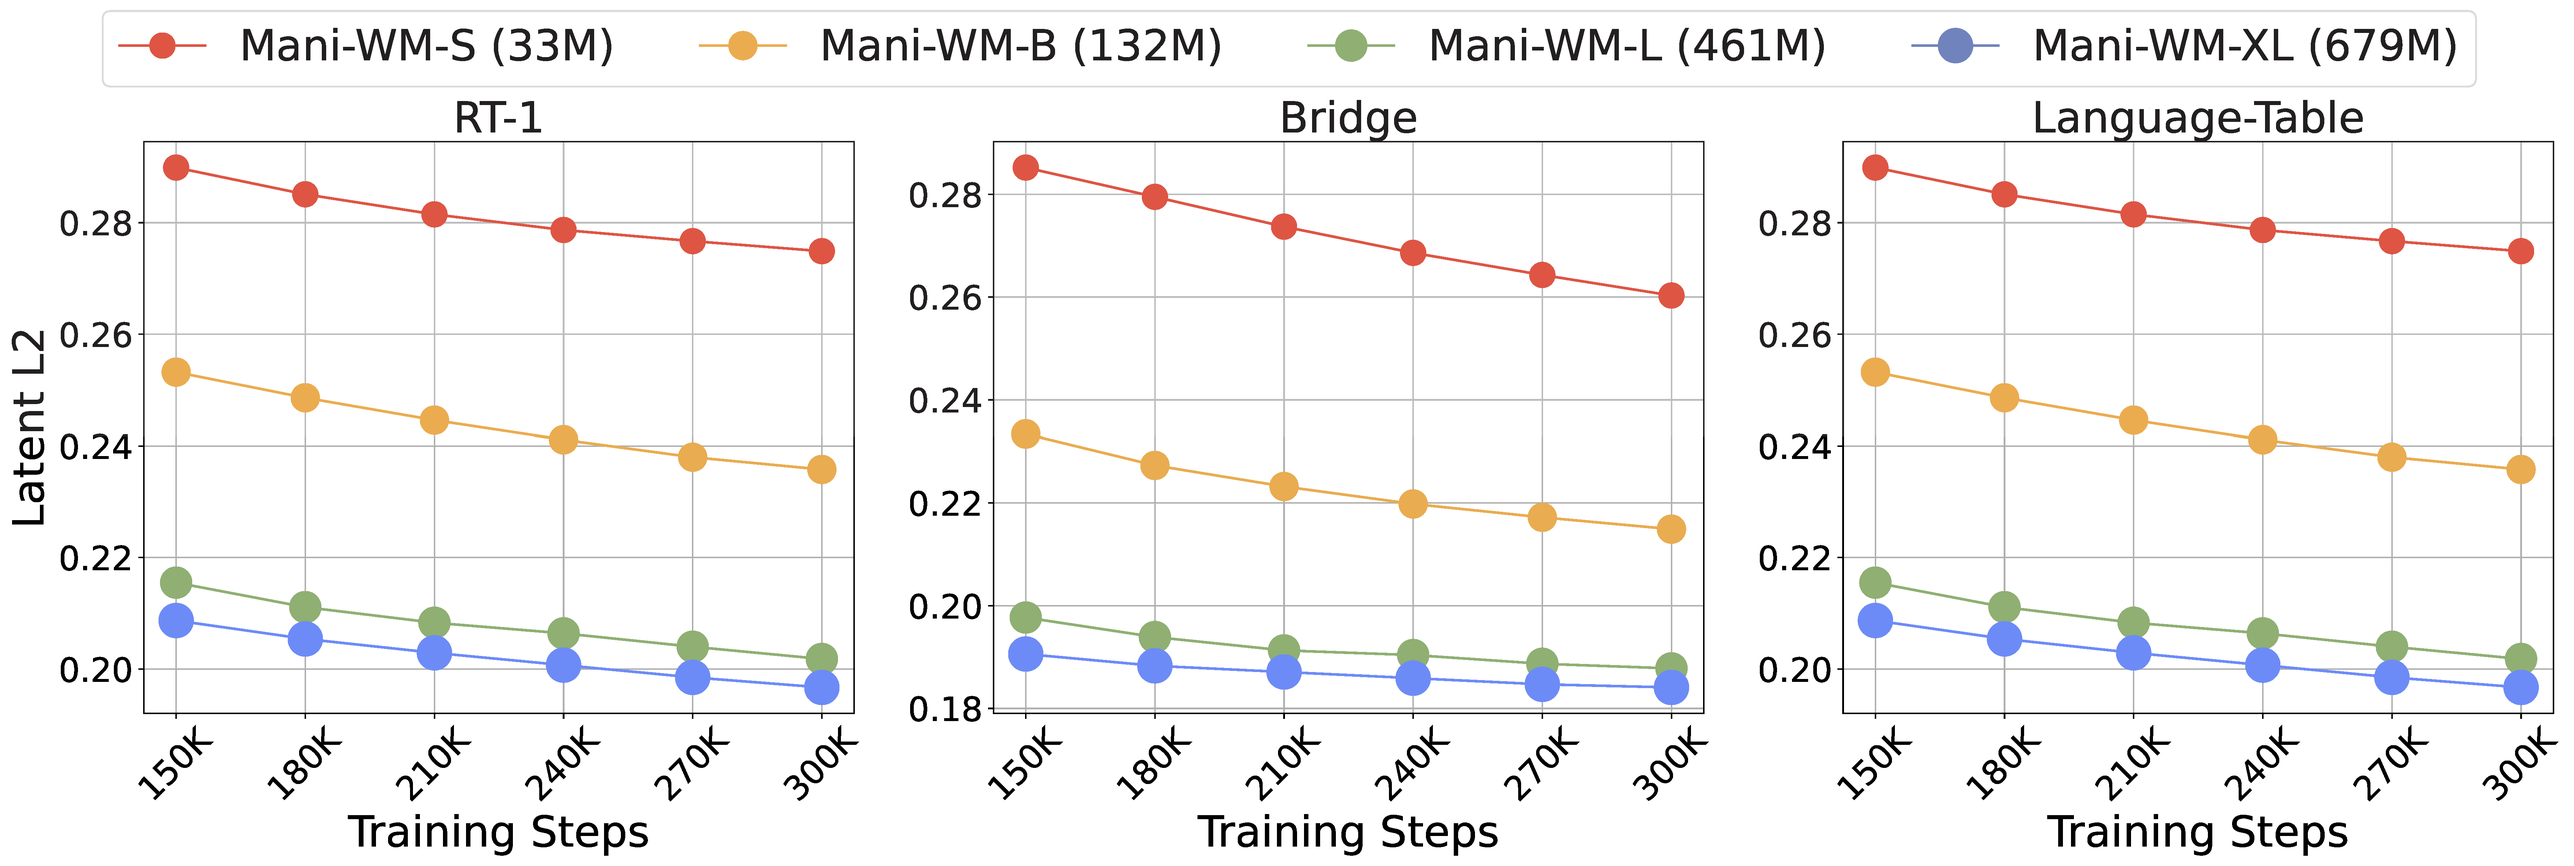
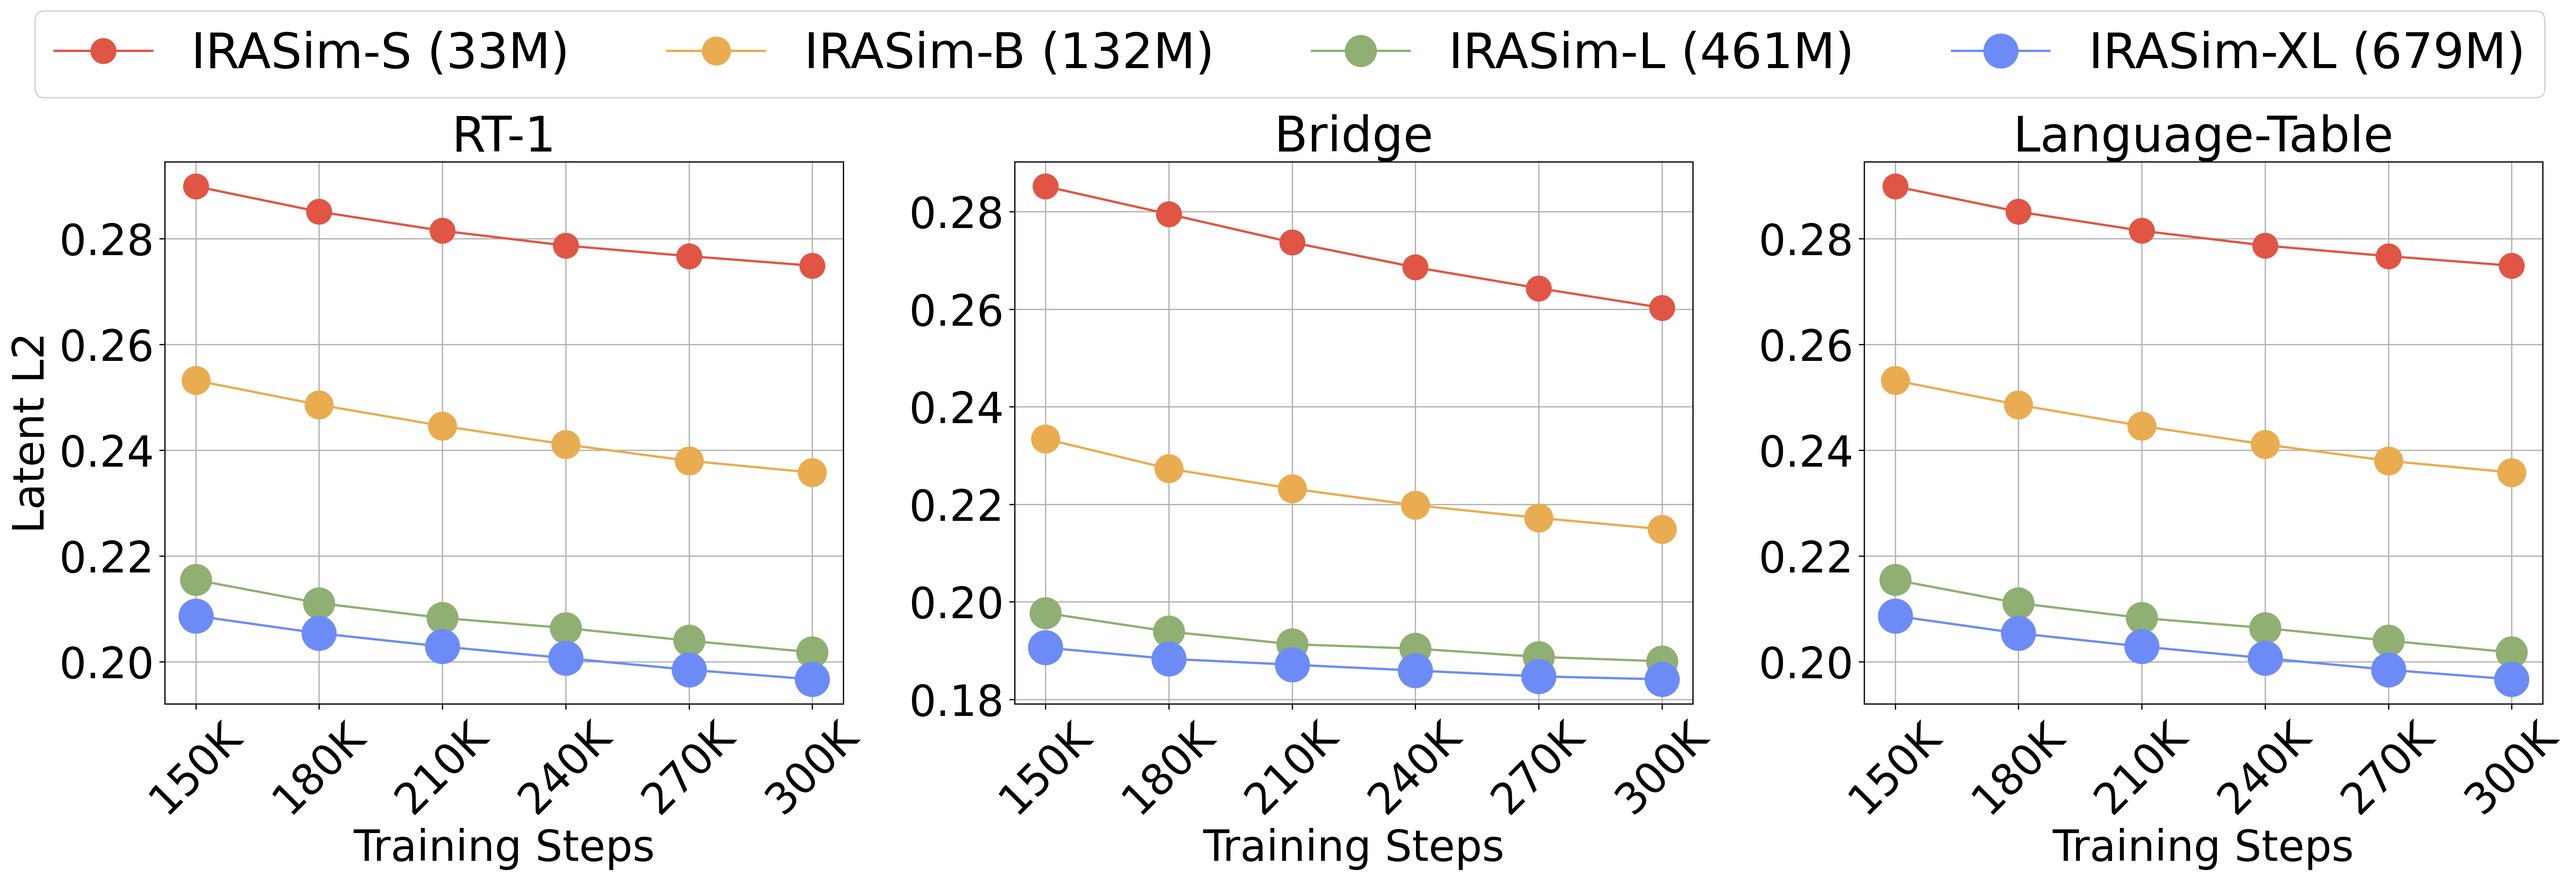
update

diff --git a/index.html b/index.html
@@ -45,7 +45,8 @@
     </style>
     <link rel="stylesheet" href="main.css">
     <link rel="icon" type="image/x-icon" href="assets/favicon.png">
-    <title>Mani-WM: An Interactive World Model for Real-Robot Manipulation</title>
+    <title>IRASim: A Fine-Grained World Model for Robot Manipulation
+    </title>
 </head>
 <body>
     <div id="video_grid">
@@ -109,33 +110,23 @@
     
 <div id="title_slide">
     <div class="title_left">
-        <h1 style="text-align: center;">Mani-WM: An Interactive World Model for Real-Robot Manipulation</h1>
+        <h1 style="text-align: center;">IRASim: A Fine-Grained World Model for Robot Manipulation</h1>
         <div class="author-container-1">
-            <div class="grid-item">ICLR 2025 Submission #6028</div>
+            <div class="grid-item">ICCV 2025 Submission #13322</div>
+            <div class="grid-item">
+                <a href="https://anonymous.4open.science/r/iccv-2025-13322" target="_blank">Anonymous Code</a>
+            </div>
         </div>
 
         <br>
 
         <div id="abstract" class="grid-container">
             <p>
-                Scalable robot learning in the real world is limited by the cost and safety issues
-                of real robots. In addition, rolling out robot trajectories in the real world can
-                be time-consuming and labor-intensive. In this paper, we propose to learn an
-                interactive world model for robot manipulation as an alternative. We present a
-                novel method, Mani-WM, which leverages the power of generative models to
-                generate realistic videos of a robot arm executing a given action trajectory, starting
-                from an initial given frame. Mani-WM employs a novel frame-level conditioning
-                technique to ensure precise alignment between actions and video frames and
-                leverages a diffusion transformer for high-quality video generation. To validate the
-                effectiveness of Mani-WM, we perform extensive experiments on four challenging
-                real-robot datasets. Results show that Mani-WM outperforms all the comparing
-                baseline methods and is more preferable in human evaluations. We further showcase
-                the flexible action controllability of Mani-WM by controlling the virtual robots in
-                datasets with trajectories 1) predicted by an autonomous policy and 2) collected by
-                a keyboard or VR controller. Finally, we combine Mani-WM with model-based
-                planning to showcase its usefulness on real-robot manipulation tasks. We hope that
-                Mani-WM can serve as an effective and scalable approach to enhance robot learning
-                in the real world.
+                World models allow autonomous agents to plan and explore by predicting the visual outcomes of different actions. 
+                However, for robot manipulation, it is challenging to accurately model the fine-grained robot-object interaction within the visual space using existing methods which overlooks precise alignment between each action and the corresponding frame. 
+                In this paper, we present IRASim, a novel world model capable of generating videos with fine-grained robot-object interaction details, conditioned on historical observations and robot action trajectories. 
+                We train a diffusion transformer and introduce a novel frame-level action-conditioning module within each transformer block to explicitly model and strengthen the action-frame alignment. 
+                Extensive experiments show that: (1) the quality of the videos generated by our method surpasses all the comparing baseline methods and scales effectively with increased model size and computation; (2) policy evaluations using IRASim exhibit a strong correlation with those using the ground-truth simulator, highlighting its potential to accelerate real-world policy evaluation; (3) testing-time scaling through model-based planning with IRASim significantly enhances policy performance, as evidenced by an improvement in the IoU metric on the Push-T benchmark from 0.637 to 0.961; (4) IRASim provides flexible action controllability, allowing virtual robotic arms in datasets to be controlled via a keyboard or VR controller. 
             </p>
         </div>
     </div>
@@ -145,7 +136,7 @@
     
     <h1 style="text-align: center;">Video Generation as World Model</h1>
     <p>
-        We create an interactive real-robot manipulation world model that can simulate robot trajectories in a way that is accurate and almost visually indistinguishable from the real world.
+        We create an fine-grained real-robot manipulation world model that can simulate robot trajectories in a way that is accurate and almost visually indistinguishable from the real world.
         With such a world model, agents can interactively control virtual robots to interact with diverse objects in various scenes and perform
         model-based planning by imagining the outcomes of different proposed candidate trajectories.
     </p>
@@ -154,7 +145,7 @@
         <div class="image_container">
             <img src="assets/images/intro.png">
             <div class="caption" style="margin-top: 0.0vw">
-                <p>Figure 1: <strong>Overview of Mani-WM.</strong>Mani-WM is an interactive world model that allows users to input an
+                <p>Figure 1: <strong>Overview of IRASim.</strong>IRASim is an interactive world model that allows users to input an
                     action trajectory to control the "real robot" in an initial frame.</p>
             </div>
         </div>
@@ -163,16 +154,16 @@
     <h1 style="text-align: center;">Trajectory-conditioned Video Generation</h1>
 
     <p>
-        Mani-WM is a novel method that generates extremely realistic videos of a robot that executes an action trajectory, starting from a given initial frame.
+        IRASim is a novel method that generates extremely realistic videos of a robot that executes an action trajectory, starting from a given initial frame.
         We refer to this task as the <em>trajectory-to-video</em> task.
         The trajectory-to-video task differs from the general text-to-video task. 
         While various videos can meet the text condition in the text-to-video task, the predicted video in our trajectory-to-video task must strictly and accurately follow the input trajectory.
         More importantly, a challenge of this task is that each action in the trajectory provides an exact description of the robot's movement in each frame.
         This contrasts with the text-to-video task, where textual descriptions offer a general condition without specific frame-by-frame details.
         Another challenge is that the trajectory-to-video task features rich robot-object interactions, which must adhere to physical laws.
-        Mani-WM leverages an innovative frame-level condition method to achieve precise frame-by-frame alignment between actions and video frames. 
-        We use the powerful Diffusion Transformer as the backbone of Mani-WM to improve the modeling of robot-object interactions. 
-        <strong>Mani-WM can generate realistic videos of high-resolution (up to 288 × 512) and long-horizon (up to 150+ frames).</strong>
+        IRASim leverages an innovative frame-level condition method to achieve precise frame-by-frame alignment between actions and video frames. 
+        We use the powerful Diffusion Transformer as the backbone of IRASim to improve the modeling of robot-object interactions. 
+        <strong>IRASim can generate realistic videos of high-resolution (up to 288 × 512) and long-horizon (up to 150+ frames).</strong>
 
     </p>
 
@@ -181,7 +172,7 @@
             <img src="assets/images/network.png">
             <div class="caption" style="margin-top: 0.0vw">
                 <p>
-                    Figure 2: <strong>Network Architecture of Mani-WM.</strong> (a) shows the general diffusion transformer architecture of Mani-WM. The input to Mani-WM includes the initial frame and the entire trajectory. (b) Frame-level adaptation (Frame-Ada). (c) Video-level adaptation (Video-Ada).
+                    Figure 2: <strong>Network Architecture of IRASim.</strong> (a) shows the general diffusion transformer architecture of IRASim. The input to IRASim includes the initial frame and the entire trajectory. (b) Frame-level adaptation (Frame-Ada). (c) Video-level adaptation (Video-Ada).
                 </p>
             </div>
         </div>
@@ -193,7 +184,7 @@
         Click the <em>Click to View More</em> button to display another random subset from 100 unpicked samples for each dataset.
         All samples are from the test set.
         Each video contains 16 frames with 4 fps. 
-        The video on the left is generated by Mani-WM, while the video on the right is the ground truth.
+        The video on the left is generated by IRASim, while the video on the right is the ground truth.
     </p>
     </br>
     <div class="button-container">
@@ -211,8 +202,8 @@
         Hover over on these longest videos to see their number of frames.
         All episodes are from the test set. 
         The average number of frames of the 100 unpicked episodes are 47.04, 36.43, and 24.57 for RT-1, Bridge, and Language-Table, respectively.
-        The video on the left is generated by Mani-WM; the video on the right is the ground truth. 
-        Mani-WM retains the powerful capability of generating visually realistic and accurate videos of long-horizon as in the short trajectory setting.  
+        The video on the left is generated by IRASim; the video on the right is the ground truth. 
+        IRASim retains the powerful capability of generating visually realistic and accurate videos of long-horizon as in the short trajectory setting.  
     </p>
     </br>
     <div class="button-container">
@@ -224,9 +215,9 @@
 
     <h1 style="text-align: center;">Scaling</h1>
     <p>
-        We follow DiT and train Mani-WM-Frame-Ada of different model sizes ranging from 33M to 679M. 
+        We follow DiT and train IRASim-Frame-Ada of different model sizes ranging from 33M to 679M. 
         Results are shown in Fig. 4. 
-        On all three datasets, Mani-WM scales elegantly with the increase of model sizes and training steps. 
+        On all three datasets, IRASim scales elegantly with the increase of model sizes and training steps. 
         This indicates strong potential for increasing model sizes and training steps to further improve the performance.
     </p>
     <div class="barplot">
@@ -234,7 +225,7 @@
             <img src="assets/images/scale.png">
             <div class="caption" style="margin-top: 0.0vw; margin-bottom: 0vw; text-align: center;">
                 <p>
-                    Figure 4: <strong>Scaling.</strong> Mani-WM scales elegantly with the increase of model sizes and training steps
+                    Figure 4: <strong>Scaling.</strong> IRASim scales elegantly with the increase of model sizes and training steps
                 </p>
             </div>
         </div>
@@ -245,14 +236,14 @@
     </h1>
 
     <p>
-        To showcase the flexible action controllability of Mani-WM, we conduct qualitative experiments in which the virtual robot is guided by trajectories generated from three distinct input sources: a keyboard, a VR controller, and a policy. Importantly, these trajectories exhibit distributions that differ from those in the original dataset.
+        To showcase the flexible action controllability of IRASim, we conduct qualitative experiments in which the virtual robot is guided by trajectories generated from three distinct input sources: a keyboard, a VR controller, and a policy. Importantly, these trajectories exhibit distributions that differ from those in the original dataset.
         For Language-Table with a 2D translation action space, we use the arrow keys from the keyboard to input action trajectories.
         For RT-1 and Bridge with a 3D action space, we use a VR controller to collect action trajectories as input.
-        We also train Mani-WM on our own robot dataset and leverage a well-trained policy with action chunk techniques to predict the trajectories. 
-        We compare the video generated by Mani-WM with the corresponding real-robot rollout.
-        Videos below show that Mani-WM can accurately follow trajectories from different input sources, beyond the training domain.
-        Additionally, Mani-WM is able to robustly handle multimodality in generation,i.e., generating corresponding videos with an identical initial frame but different trajectories. 
-        In the Appendix in the paper, we also demonstrate that Mani-WM can handle noisy and physically implausible trajectories.
+        We also train IRASim on our own robot dataset and leverage a well-trained policy with action chunk techniques to predict the trajectories. 
+        We compare the video generated by IRASim with the corresponding real-robot rollout.
+        Videos below show that IRASim can accurately follow trajectories from different input sources, beyond the training domain.
+        Additionally, IRASim is able to robustly handle multimodality in generation,i.e., generating corresponding videos with an identical initial frame but different trajectories. 
+        In the Appendix in the paper, we also demonstrate that IRASim can handle noisy and physically implausible trajectories.
     </p>
 
     <h2 style="text-align: center; margin: 20px 20px 20px 20px; font-weight: normal; font-size: 1.2vw">"Controlling" the Robot in Language-Table with a Keyboard</h2>
@@ -300,7 +291,7 @@
 
     <h1 style="text-align: center;margin-bottom: 10px;">Real-Robot Model-based Planning Experiment</h1>
     <p>
-        We conduct a real-robot model-based planning experiment to show the usefulness of Mani-WM for manipulation task. The experiment demonstrates that Mani-WM can effectively plan trajectories to finish manipulation tasks by predicting the outcomes of executing different candidate trajectories.
+        We conduct a real-robot model-based planning experiment to show the usefulness of IRASim for manipulation task. The experiment demonstrates that IRASim can effectively plan trajectories to finish manipulation tasks by predicting the outcomes of executing different candidate trajectories.
     </p>
 
     <p><b>Video results:</b> The left column includes the Initial Image and the Goal Image, while each column on the right shows 
@@ -325,7 +316,7 @@
 
         <!-- Other columns with videos -->
         <div class="item">
-            <h3 style="font-size: 18px; white-space: nowrap;">Mani-WM (ResNet) Success</h3>
+            <h3 style="font-size: 18px; white-space: nowrap;">IRASim (ResNet) Success</h3>
             <h3> Execute Video </h3>
             <video autoplay muted loop>
                 <source src="assets/videos/planning/close_drawer/resnet/43_success.mp4" type="video/mp4">
@@ -334,7 +325,7 @@
             <h3> Predict Video </h3>
         </div>
         <div class="item">
-            <h3>Mani-WM (ResNet) Fail</h3>
+            <h3>IRASim (ResNet) Fail</h3>
             <h3> Execute Video </h3>
             <video autoplay muted loop>
                 <source src="assets/videos/planning/close_drawer/resnet/48_fail.mp4" type="video/mp4">
@@ -343,7 +334,7 @@
             <h3> Predict Video </h3>
         </div>
         <div class="item">
-            <h3>Mani-WM (MSE) Success</h3>
+            <h3>IRASim (MSE) Success</h3>
             <h3> Execute Video </h3>
             <video autoplay muted loop>
                 <source src="assets/videos/planning/close_drawer/mse/45_success.mp4" type="video/mp4">
@@ -352,7 +343,7 @@
             <h3> Predict Video </h3>
         </div>
         <div class="item">
-            <h3>Mani-WM (MSE) Fail</h3>
+            <h3>IRASim (MSE) Fail</h3>
             <h3> Execute Video </h3>
             <video autoplay muted loop>
                 <source src="assets/videos/planning/close_drawer/mse/30_fail.mp4" type="video/mp4">
@@ -397,7 +388,7 @@
     
             <!-- Other columns with videos -->
             <div class="item">
-                <h3 style="font-size: 18px; white-space: nowrap;">Mani-WM (ResNet) Success</h3>
+                <h3 style="font-size: 18px; white-space: nowrap;">IRASim (ResNet) Success</h3>
                 <h3> Execute Video </h3>
             <video autoplay muted loop>
                     <source src="assets/videos/planning/place_green/resnet/39_success.mp4" type="video/mp4">
@@ -406,7 +397,7 @@
                 <h3> Predict Video </h3>
             </div>
             <div class="item">
-                <h3>Mani-WM (ResNet) Fail</h3>
+                <h3>IRASim (ResNet) Fail</h3>
                 <h3> Execute Video </h3>
                 <video autoplay muted loop>
                     <source src="assets/videos/planning/place_green/resnet/46_fail.mp4" type="video/mp4">
@@ -415,7 +406,7 @@
                 <h3> Predict Video </h3>
             </div>
             <div class="item">
-                <h3>Mani-WM (MSE) Success</h3>
+                <h3>IRASim (MSE) Success</h3>
                 <h3> Execute Video </h3>
             <video autoplay muted loop>
                     <source src="assets/videos/planning/place_green/mse/40_success.mp4" type="video/mp4">
@@ -424,7 +415,7 @@
                 <h3> Predict Video </h3>
             </div>
             <div class="item">
-                <h3>Mani-WM (MSE) Fail</h3>
+                <h3>IRASim (MSE) Fail</h3>
                 <h3> Execute Video </h3>
             <video autoplay muted loop>
                     <source src="assets/videos/planning/place_green/mse/44_fail.mp4" type="video/mp4">
@@ -469,7 +460,7 @@
         
                 <!-- Other columns with videos -->
                 <div class="item">
-                    <h3 style="font-size: 18px; white-space: nowrap;">Mani-WM (ResNet) Success</h3>
+                    <h3 style="font-size: 18px; white-space: nowrap;">IRASim (ResNet) Success</h3>
                     <h3> Execute Video </h3>
             <video autoplay muted loop>
                         <source src="assets/videos/planning/place_red/resnet/30_success.mp4" type="video/mp4">
@@ -478,7 +469,7 @@
                     <h3> Predict Video </h3>
                 </div>
                 <div class="item">
-                    <h3>Mani-WM (ResNet) Fail</h3>
+                    <h3>IRASim (ResNet) Fail</h3>
                     <h3> Execute Video </h3>
             <video autoplay muted loop>
                         <source src="assets/videos/planning/place_red/resnet/44_fail.mp4" type="video/mp4">
@@ -487,7 +478,7 @@
                     <h3> Predict Video </h3>
                 </div>
                 <div class="item">
-                    <h3>Mani-WM (MSE) Success</h3>
+                    <h3>IRASim (MSE) Success</h3>
                     <h3> Execute Video </h3>
             <video autoplay muted loop>
                         <source src="assets/videos/planning/place_red/mse/32_success.mp4" type="video/mp4">
@@ -496,7 +487,7 @@
                     <h3> Predict Video </h3>
                 </div>
                 <div class="item">
-                    <h3>Mani-WM (MSE) Fail</h3>
+                    <h3>IRASim (MSE) Fail</h3>
                     <h3> Execute Video </h3>
             <video autoplay muted loop>
                         <source src="assets/videos/planning/place_red/mse/21_fail.mp4" type="video/mp4">
